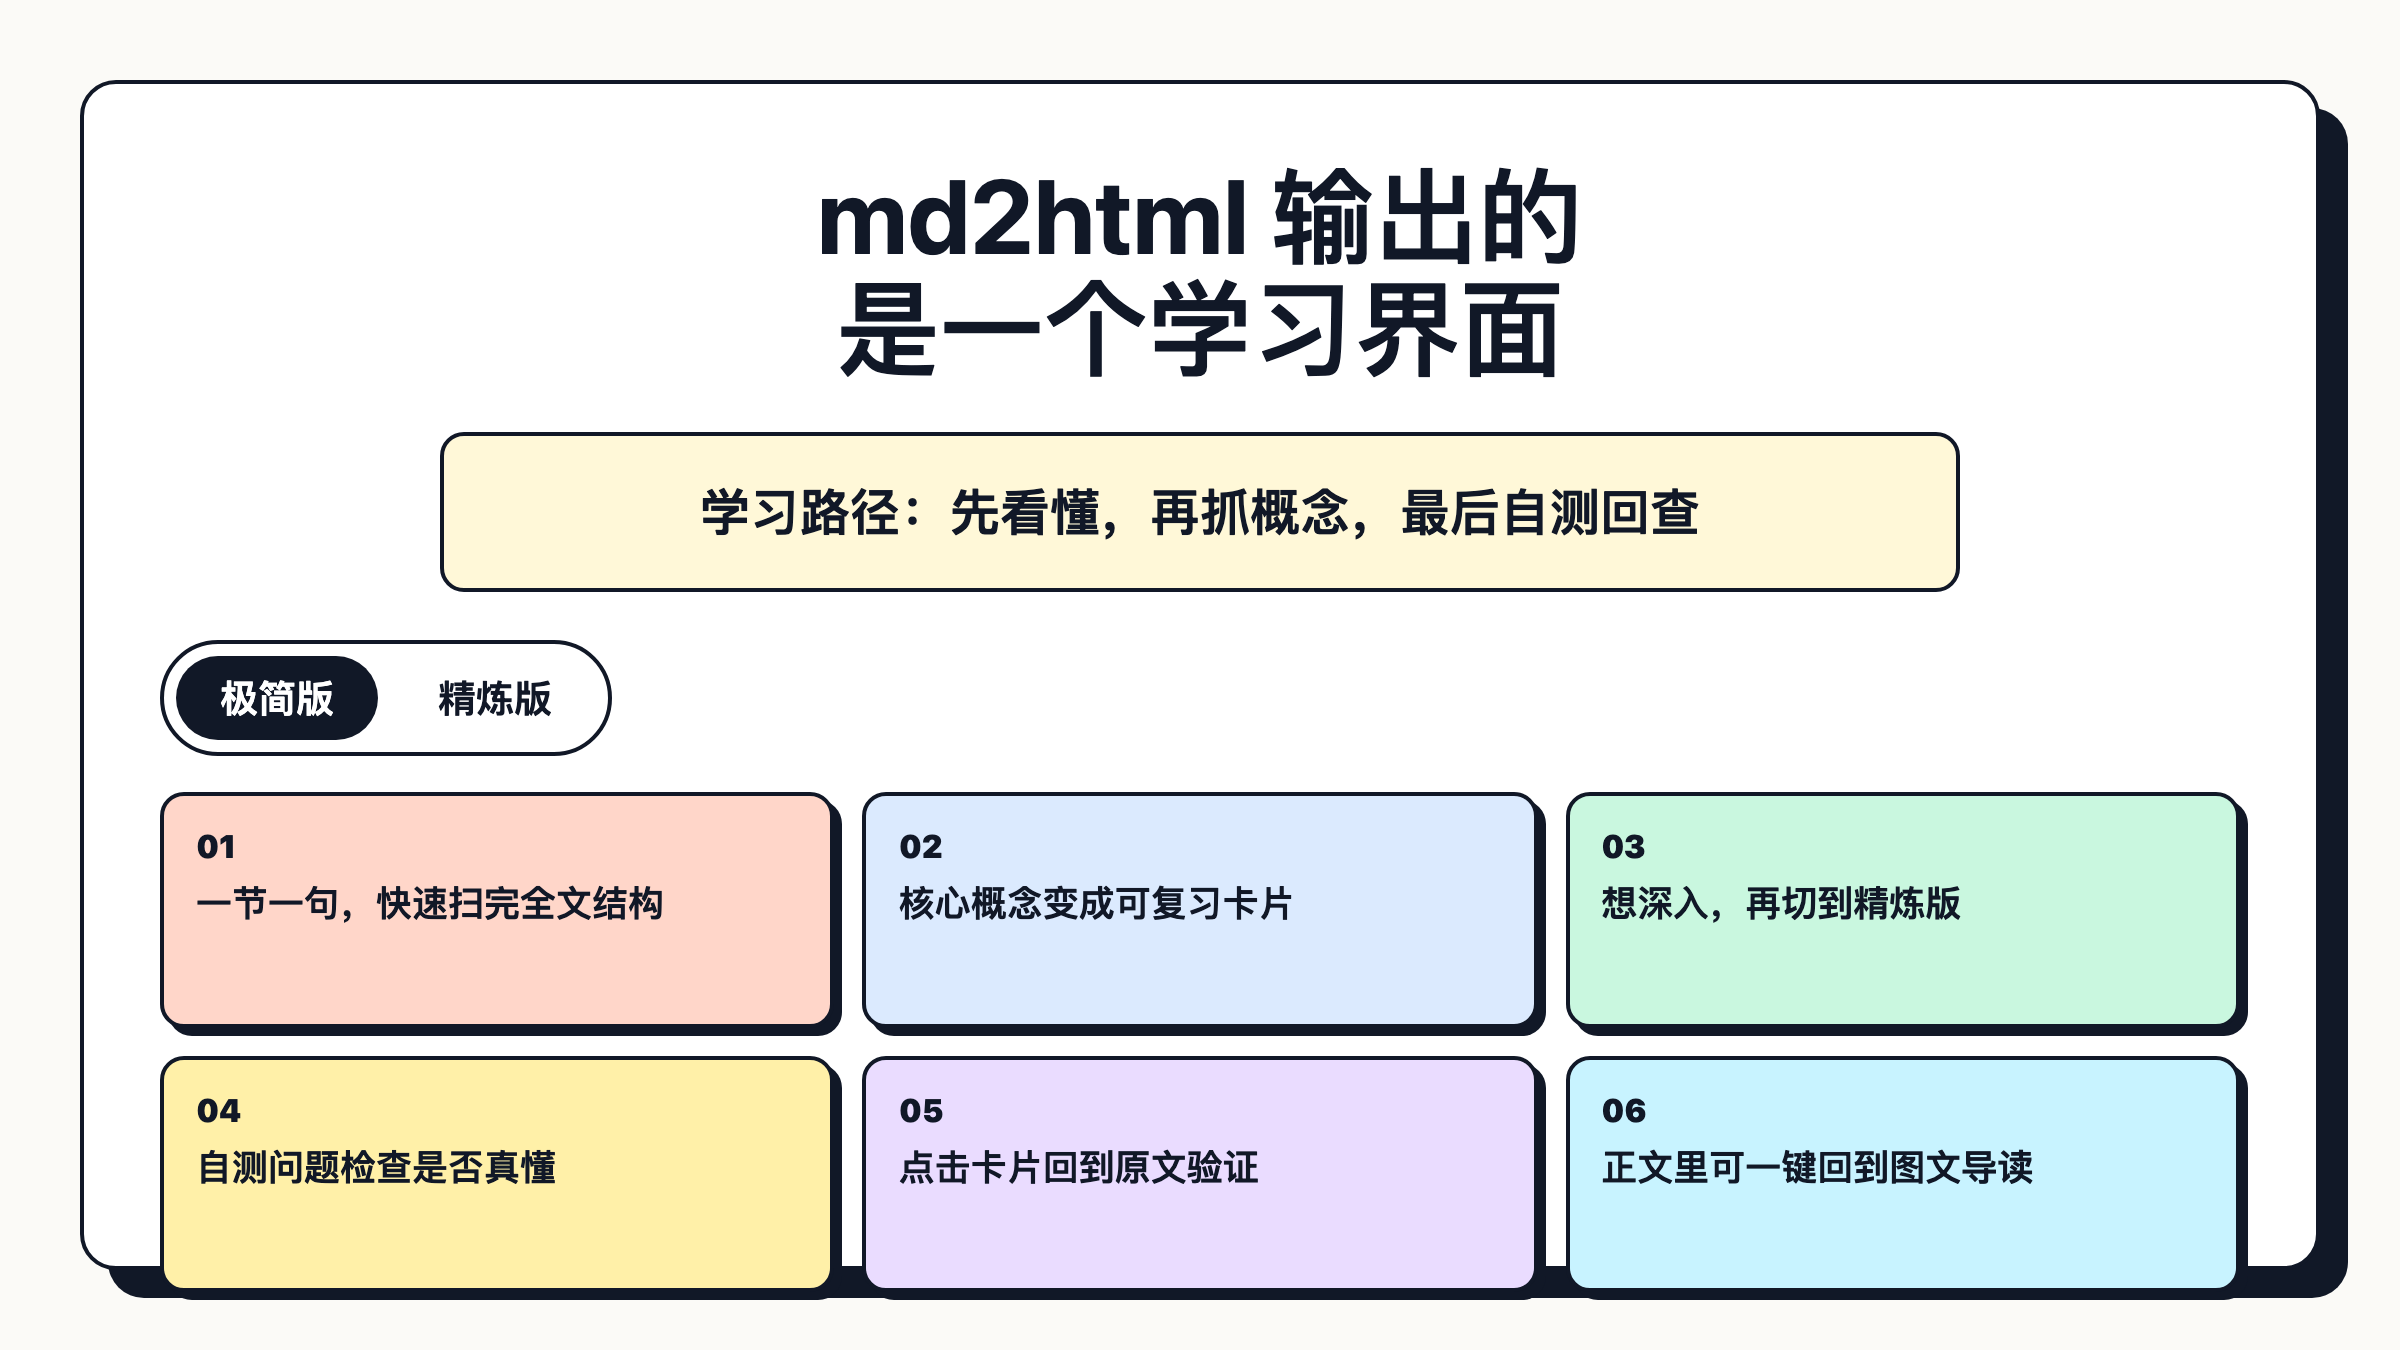
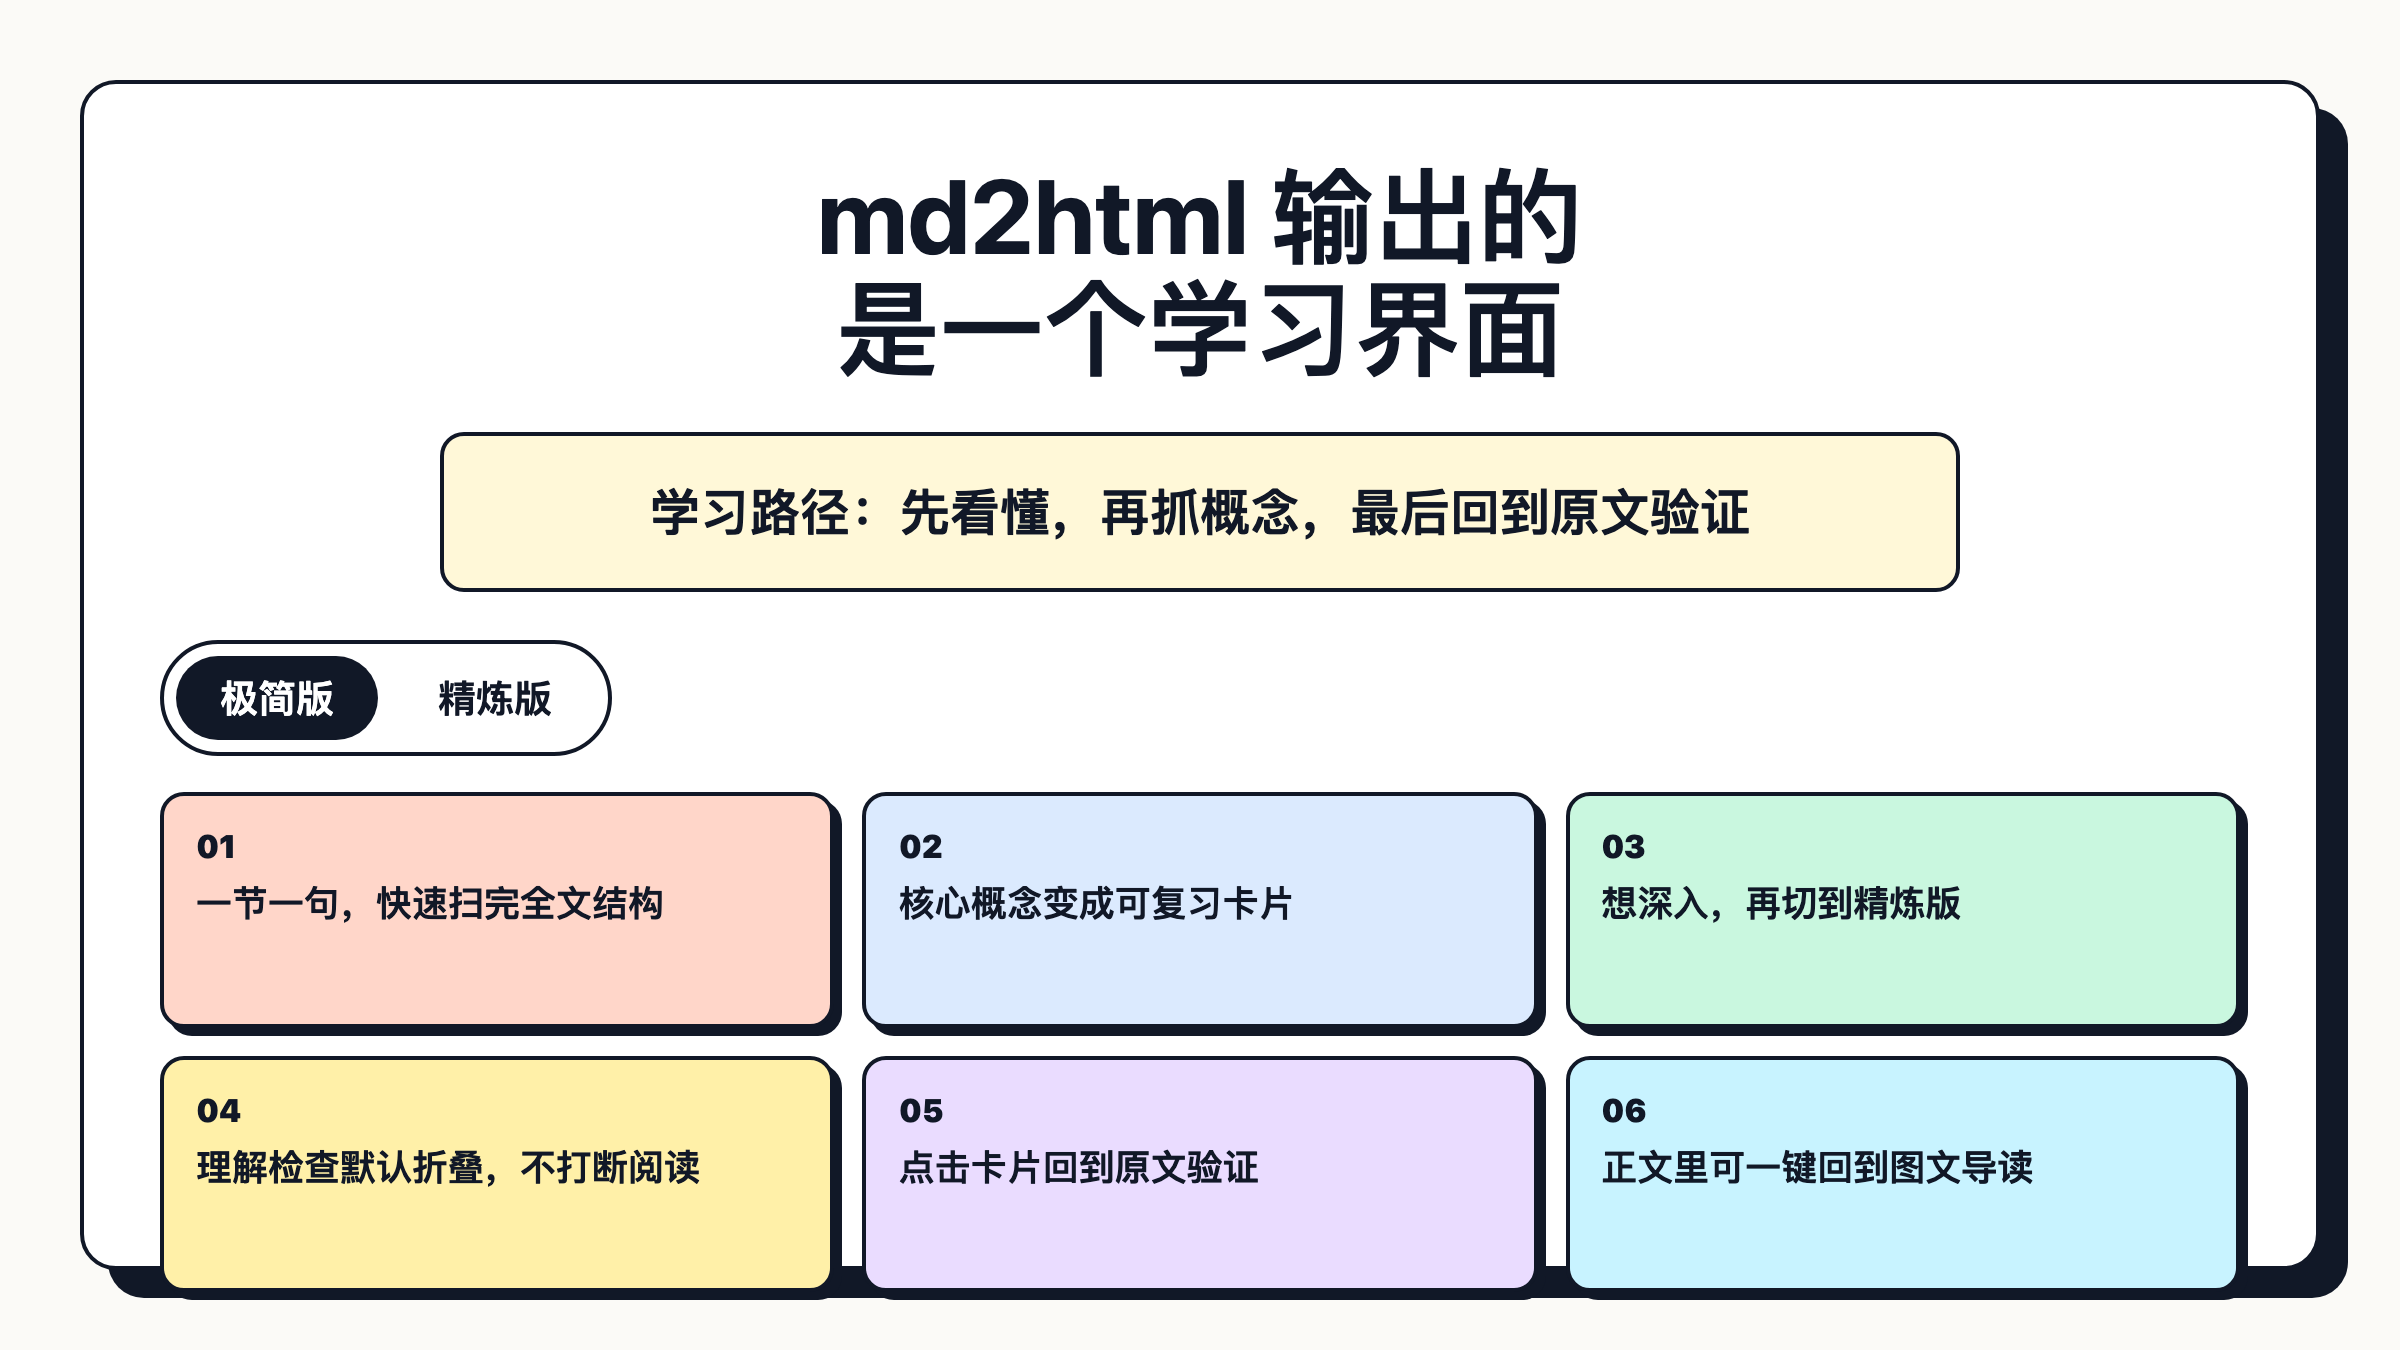
Make understanding checks optional

Changed region(s): [[0.25, 0.3422, 0.75, 0.4044], [0.0625, 0.84, 0.3125, 0.9022]]

diff --git a/share-guide/cards/output.html b/share-guide/cards/output.html
@@ -26,13 +26,13 @@
 <body>
   <main class="card">
     <h1>md2html 输出的<br>是一个学习界面</h1>
-    <div class="thesis">学习路径：先看懂，再抓概念，最后自测回查</div>
+    <div class="thesis">学习路径：先看懂，再抓概念，最后回到原文验证</div>
     <div class="tabs"><span class="tab">极简版</span><span class="tab">精炼版</span></div>
     <section class="grid">
       <div class="mini"><span class="num">01</span><p>一节一句，快速扫完全文结构</p></div>
       <div class="mini"><span class="num">02</span><p>核心概念变成可复习卡片</p></div>
       <div class="mini"><span class="num">03</span><p>想深入，再切到精炼版</p></div>
-      <div class="mini"><span class="num">04</span><p>自测问题检查是否真懂</p></div>
+      <div class="mini"><span class="num">04</span><p>理解检查默认折叠，不打断阅读</p></div>
       <div class="mini"><span class="num">05</span><p>点击卡片回到原文验证</p></div>
       <div class="mini"><span class="num">06</span><p>正文里可一键回到图文导读</p></div>
     </section>

diff --git a/md2html/scripts/render_md2html.py b/md2html/scripts/render_md2html.py
@@ -552,21 +552,20 @@ def learning_html(sections: list[VisualSection]) -> str:
           <article class="study-card">
             <span>03</span>
             <h3>最后回查</h3>
-            <p>用自测题确认理解，再回到完整正文验证细节。</p>
+            <p>回到完整正文验证细节；需要时再做理解检查。</p>
           </article>
         </div>
 
-        <div class="learning-columns">
-          <section class="concepts" aria-label="Core concepts">
-            <h3>核心概念</h3>
-            <div class="concept-grid">{''.join(concept_cards)}</div>
-          </section>
-          <section class="quiz" aria-label="Self test">
-            <h3>自测问题</h3>
-            <div class="quiz-list">{''.join(quiz_items)}</div>
-          </section>
-        </div>
+        <section class="concepts" aria-label="Core concepts">
+          <h3>核心概念</h3>
+          <div class="concept-grid">{''.join(concept_cards)}</div>
+        </section>
       </section>
+
+      <details class="check-understanding">
+        <summary>想确认自己是否理解？展开 5 个问题</summary>
+        <div class="quiz-list">{''.join(quiz_items[:5])}</div>
+      </details>
     '''
 
 
@@ -874,7 +873,7 @@ HTML_TEMPLATE = """<!doctype html>
       font-size: 13px;
       font-weight: 900;
     }}
-    .study-card h3, .concepts h3, .quiz h3 {{
+    .study-card h3, .concepts h3 {{
       margin: 0 0 10px;
       font-size: 21px;
     }}
@@ -884,15 +883,9 @@ HTML_TEMPLATE = """<!doctype html>
       font-size: 15px;
       line-height: 1.55;
     }}
-    .learning-columns {{
-      display: grid;
-      grid-template-columns: minmax(0, 1.15fr) minmax(280px, .85fr);
-      gap: 22px;
-      align-items: start;
-    }}
     .concept-grid {{
       display: grid;
-      grid-template-columns: repeat(2, minmax(0, 1fr));
+      grid-template-columns: repeat(3, minmax(0, 1fr));
       gap: 12px;
     }}
     .concept-card {{
@@ -916,6 +909,28 @@ HTML_TEMPLATE = """<!doctype html>
     .quiz-list {{
       display: grid;
       gap: 10px;
+    }}
+    .check-understanding {{
+      max-width: var(--measure);
+      margin: 22px auto 0;
+      padding: 0;
+    }}
+    .check-understanding > summary {{
+      cursor: pointer;
+      display: inline-flex;
+      align-items: center;
+      min-height: 42px;
+      padding: 8px 14px;
+      border: 1px solid #111827;
+      border-radius: 999px;
+      background: #fff8d8;
+      box-shadow: 3px 3px 0 #111827;
+      font-weight: 800;
+      list-style: none;
+    }}
+    .check-understanding > summary::-webkit-details-marker {{ display: none; }}
+    .check-understanding .quiz-list {{
+      margin-top: 18px;
     }}
     .quiz-item {{
       border: 1px solid var(--line);
@@ -1065,7 +1080,7 @@ HTML_TEMPLATE = """<!doctype html>
       .shell {{
         padding: 28px 20px 72px;
       }}
-      .idea-grid, .minimal-grid, .study-grid, .learning-columns, .concept-grid {{ grid-template-columns: 1fr; }}
+      .idea-grid, .minimal-grid, .study-grid, .concept-grid {{ grid-template-columns: 1fr; }}
       .map-core {{ min-height: auto; text-align: left; }}
       .tabbar {{ width: 100%; display: grid; grid-template-columns: 1fr 1fr; }}
       header {{ padding-top: 22px; }}

diff --git a/md2html/SKILL.md b/md2html/SKILL.md
@@ -1,6 +1,6 @@
 ---
 name: md2html
-description: Use when the user wants to turn a long Markdown article, learning note, draft, essay, report, transcript, or plain-text document into a human-friendly HTML learning interface with a central thesis, density tabs, concept cards, study path, self-test questions, summaries, navigation, and responsive layout. Trigger for requests like "make this long doc easier to learn", "convert this article to a learning HTML", "HTML is better for humans than long Markdown", "make a concept map", "make this into study cards", "present this copy as an HTML page", or "create a readable web version of this long text".
+description: Use when the user wants to turn a long Markdown article, learning note, draft, essay, report, transcript, or plain-text document into a human-friendly HTML learning interface with a central thesis, density tabs, concept cards, study path, optional understanding-check questions, summaries, navigation, and responsive layout. Trigger for requests like "make this long doc easier to learn", "convert this article to a learning HTML", "HTML is better for humans than long Markdown", "make a concept map", "make this into study cards", "present this copy as an HTML page", or "create a readable web version of this long text".
 metadata:
   short-description: Turn Markdown into a learning UI
 ---
@@ -15,7 +15,7 @@ The output should help a real reader:
 
 - Understand the article's shape quickly.
 - Navigate long sections without getting lost.
-- Grasp the argument through a central thesis, density tabs, concept cards, study path, self-test questions, and summaries before reading full prose.
+- Grasp the argument through a central thesis, density tabs, concept cards, study path, optional understanding checks, and summaries before reading full prose.
 - Treat Markdown as the durable source and HTML as the human learning surface.
 - Read comfortably on desktop and mobile.
 
@@ -28,9 +28,9 @@ Default to a single self-contained `.html` file with visual-first study sections
 3. If the source is Markdown or plain text, render it with `scripts/render_md2html.py`.
 4. Improve the generated HTML when needed:
    - Add a useful visual summary if the article lacks one.
-   - Add a learning path: skim map, learn concepts, self-test, then verify in the original text.
+   - Add a learning path: skim map, learn concepts, then verify in the original text.
    - Extract core concepts and make them easier to review.
-   - Add self-test questions that point back to the source meaning.
+   - Add optional understanding-check questions that point back to the source meaning, but keep them out of the main flow.
    - Split very long sections with subheads.
    - Promote memorable lines into cards, nodes, or pull quotes.
    - Collapse or de-emphasize full paragraphs when the user wants scanning over reading.
@@ -54,13 +54,13 @@ Optional flags:
 python3 scripts/render_md2html.py input.md output.html --title "Readable Title" --accent "#2563eb"
 ```
 
-The script is intentionally dependency-free and creates a complete HTML document with embedded CSS and JavaScript. It automatically builds a central thesis, density tabs, concept cards, a learning path, self-test questions, and a collapsed full-text section.
+The script is intentionally dependency-free and creates a complete HTML document with embedded CSS and JavaScript. It automatically builds a central thesis, density tabs, concept cards, a learning path, optional understanding-check questions, and a collapsed full-text section.
 
 ## Design Rules
 
 - Favor learning, comprehension, and scannability over article-like elegance.
 - Make the default experience visual: colorful nodes, section cards, short bullets, and a clear central thesis.
-- Make the learning flow explicit: overview first, concepts second, self-test third, source verification last.
+- Make the learning flow explicit: overview first, concepts second, source verification third, optional understanding check last.
 - Summaries should capture thesis, causality, contrast, and action implications. Prefer sentences with signals like "not X but Y", "because", "therefore", "the key is", "the real value is", and avoid merely taking the first paragraphs.
 - Use density tabs when a document is long: an ultra-minimal tab for one key point per section, and a refined tab for several bullets plus a quote or implication.
 - Use multiple purposeful colors so the page does not feel like one long text column.

diff --git a/README.md b/README.md
@@ -6,7 +6,7 @@ Turn long Markdown or plain-text learning materials into visual-first HTML learn
 - density tabs for minimal and refined summaries
 - a study path
 - core concept cards
-- self-test questions
+- optional understanding-check questions
 - colorful section cards
 - collapsed full text with return links back to the visual guide
 
